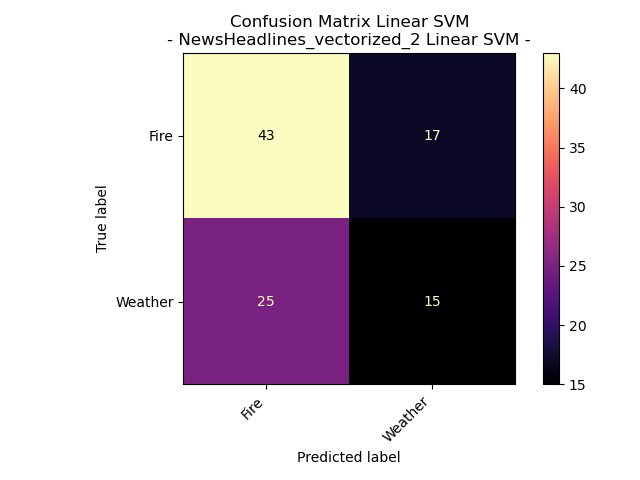
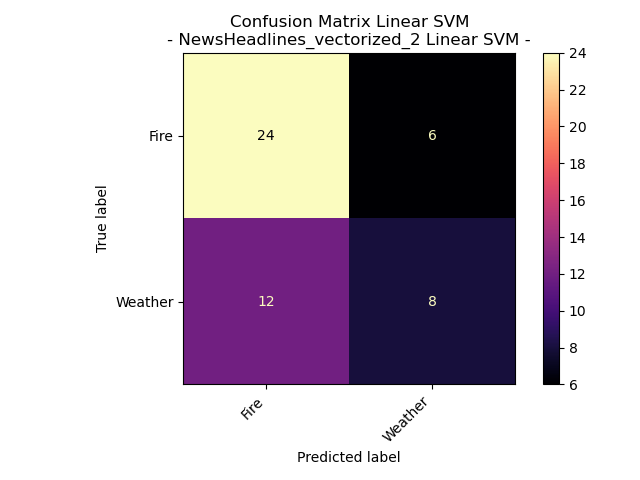
Changed gamma from auto to scaled and it now allows poly to run successfully

diff --git a/svm.py b/svm.py
@@ -120,7 +120,7 @@ def set_new_generic_label(df, label_col):
     return df2
     
 
-def setup_train_test_data(df, label_col, cols_of_interst_plus_label=None, test_size=0.2, seed_val=1):
+def setup_train_test_data(df, label_col, cols_of_interst_plus_label=None, test_size=0.1, seed_val=1):
 
     if cols_of_interst_plus_label is None:
         df2 = df.copy()
@@ -353,31 +353,31 @@ def run_svm(sample_dict, filename, visual_folder="./CreatedVisuals/svm"):
     plt.savefig(f"{visual_folder}/{filename}_rbf_svm_cm.png")
     plt.close()
 
-    # ## POLY
-    # print("--- Starting Poly ---")
-    # SVM_Model3=sklearn.svm.SVC(C=1.0, kernel='poly', degree=3, gamma="auto")
-    # SVM_Model3.fit(train_df, train_labels)
+    ## POLY
+    print("--- Starting Poly ---")
+    SVM_Model3=sklearn.svm.SVC(C=1.0, kernel='poly', degree=3, gamma="scale")
+    SVM_Model3.fit(train_df, train_labels)
 
-    # print("SVM prediction:\n", SVM_Model3.predict(test_df))
-    # print("Actual:")
-    # print(test_labels)
+    print("SVM prediction:\n", SVM_Model3.predict(test_df))
+    print("Actual:")
+    print(test_labels)
     
-    # score = accuracy_score(test_labels, SVM_Model3.predict(test_df))
-    # print(f"\nThe accurary is for poly SVM {filename} is : {score}\n")
+    score = accuracy_score(test_labels, SVM_Model3.predict(test_df))
+    print(f"\nThe accurary is for poly SVM {filename} is : {score}\n")
 
-    # SVM_matrix = confusion_matrix(test_labels, SVM_Model3.predict(test_df))
-    # print("\nThe confusion matrix for poly p = 3 SVM is:")
-    # print(SVM_matrix)
-    # print("\n\n")
+    SVM_matrix = confusion_matrix(test_labels, SVM_Model3.predict(test_df))
+    print("\nThe confusion matrix for poly p = 3 SVM is:")
+    print(SVM_matrix)
+    print("\n\n")
     
-    # disp = ConfusionMatrixDisplay(confusion_matrix=SVM_matrix, display_labels=SVM_Model1.classes_)
-    # plt.figure(figsize=(18, 15))
-    # disp.plot(cmap='magma')
-    # plt.xticks(rotation=45, ha='right')
-    # plt.title(f"Confusion Matrix\n - {filename} Linear SVM -") 
-    # plt.tight_layout()
-    # plt.savefig(f"{visual_folder}/{filename}_poly_svm_cm.png")
-    # plt.close()
+    disp = ConfusionMatrixDisplay(confusion_matrix=SVM_matrix, display_labels=SVM_Model1.classes_)
+    plt.figure(figsize=(18, 15))
+    disp.plot(cmap='magma')
+    plt.xticks(rotation=45, ha='right')
+    plt.title(f"Confusion Matrix\n - {filename} Linear SVM -") 
+    plt.tight_layout()
+    plt.savefig(f"{visual_folder}/{filename}_poly_svm_cm.png")
+    plt.close()
 
 
 # DO NOT REMOVE!!!
